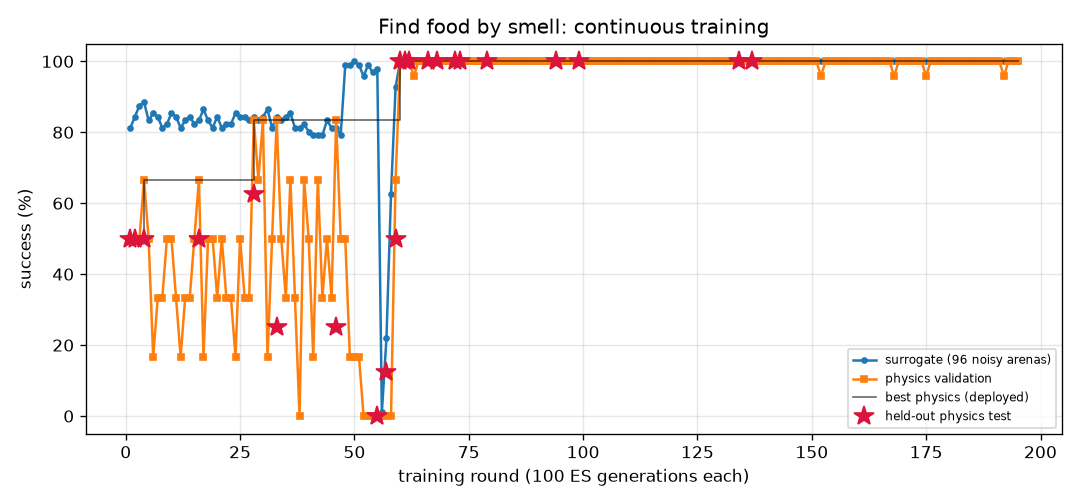
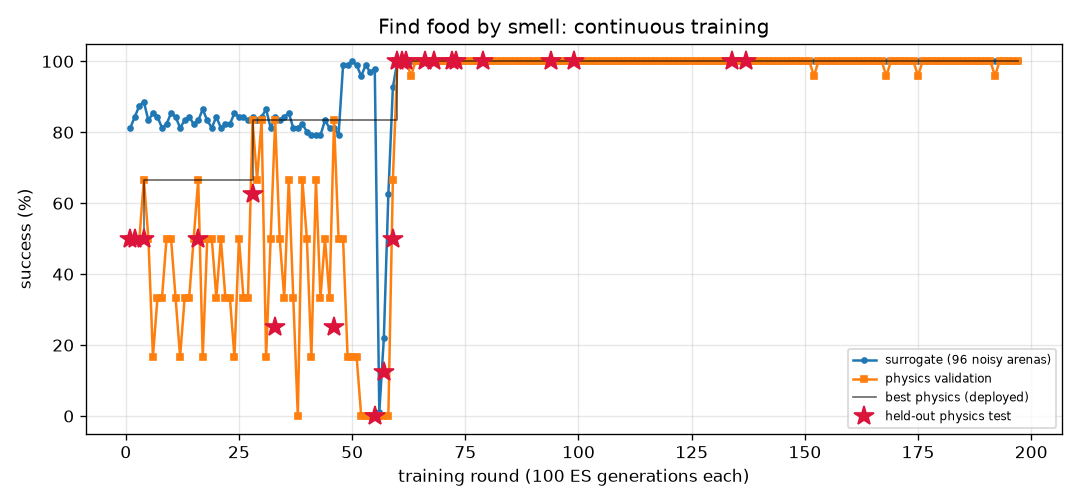
FlyLab: continuous training progress
- walk_forward: optimal, physics val 100% of 24, round 293
- turn: optimal, physics val 100% of 24, round 867
- goto: optimal, physics val 100% of 24, round 240
- odor_seek: optimal, physics val 100% of 24, round 197
- odor_avoid: optimal, physics val 100% of 24, round 784
- light_seek: optimal, physics val 100% of 24, round 433
- light_avoid: optimal, physics val 100% of 24, round 521

diff --git a/projects/09_flylab/training/goto/REPORT.md b/projects/09_flylab/training/goto/REPORT.md
@@ -1,14 +1,14 @@
 # Go to a location (`goto`) — training report
 
-*Auto-generated by `train_brains.py`, last updated 2026-11-05T12:49:54.*
+*Auto-generated by `train_brains.py`, last updated 2026-11-05T13:45:05.*
 
 ![curve](curve.png)
 
 | | |
 |---|---|
-| rounds | 237 |
-| ES generations | 23700 |
-| physics runs | 5638 |
+| rounds | 240 |
+| ES generations | 24000 |
+| physics runs | 5710 |
 | status | **optimal** |
 | best brain | round 176: physics validation **100%** on 24 arenas, surrogate 100% |
 | held-out physics test | **100%** on 32 unseen arenas (95% CI 89%-100%) (errors: [0.2, 0.32, 0.19, 0.24, 0.18, 0.2, 0.19, 0.17, 0.22, 0.23, 0.23, 0.26, 0.2, 0.19, 0.24, 0.23, 0.22, 0.24, 0.2, 0.22, 0.2, 0.2, 0.26, 0.19, 0.22, 0.18, 0.26, 0.22, 0.2, 0.26, 0.23, 0.23]) |
@@ -17,9 +17,6 @@ Physics error per arena: mm from target at the end (< 1.5 and standing still = s
 
 | round | level | gens | sigma | surrogate | physics val | val errors | test | note |
 |---:|---:|---:|---:|---:|---:|---|---:|---|
-| 198 | 3 | 19800 | 0.025 | 99% | 100% | [0.59, 0.63, 0.64, 0.54, 0.56, 0.52, 0.6, 0.56, 0.55, 0.55, 0.54, 0.56, 0.62, 0.55, 0.66, 0.64, 0.61, 0.52, 0.53, 0.59, 0.6, 0.57, 0.63, 0.54] |  |  |
-| 199 | 3 | 19900 | 0.025 | 99% | 100% | [0.68, 0.67, 0.69, 0.58, 0.57, 0.6, 0.67, 0.62, 0.61, 0.53, 0.53, 0.56, 0.65, 0.57, 0.58, 0.6, 0.68, 0.62, 0.55, 0.61, 0.6, 0.51, 0.69, 0.59] |  |  |
-| 200 | 3 | 20000 | 0.025 | 100% | 100% | [0.49, 0.52, 0.56, 0.45, 0.53, 0.47, 0.52, 0.53, 0.47, 0.49, 0.5, 0.47, 0.52, 0.52, 0.57, 0.55, 0.53, 0.44, 0.49, 0.51, 0.56, 0.52, 0.54, 0.47] |  | restart from best |
 | 201 | 3 | 20100 | 0.024 | 98% | 100% | [0.33, 0.32, 0.29, 0.32, 0.25, 0.31, 0.28, 0.35, 0.35, 0.24, 0.26, 0.31, 0.34, 0.28, 0.22, 0.28, 0.34, 0.31, 0.23, 0.34, 0.27, 0.25, 0.34, 0.32] |  |  |
 | 202 | 3 | 20200 | 0.025 | 100% | 100% | [0.43, 0.47, 0.49, 0.48, 0.38, 0.44, 0.47, 0.49, 0.45, 0.4, 0.38, 0.46, 0.45, 0.42, 0.42, 0.49, 0.46, 0.46, 0.38, 0.46, 0.46, 0.42, 0.44, 0.48] |  |  |
 | 203 | 3 | 20300 | 0.024 | 99% | 100% | [0.53, 0.56, 0.49, 0.45, 0.43, 0.44, 0.58, 0.47, 0.49, 0.44, 0.41, 0.44, 0.55, 0.41, 0.48, 0.49, 0.57, 0.47, 0.43, 0.49, 0.47, 0.45, 0.55, 0.46] |  |  |
@@ -57,3 +54,6 @@ Physics error per arena: mm from target at the end (< 1.5 and standing still = s
 | 235 | 3 | 23500 | 0.025 | 99% | 100% | [0.49, 0.48, 0.49, 0.39, 0.35, 0.37, 0.52, 0.4, 0.4, 0.35, 0.33, 0.37, 0.49, 0.34, 0.39, 0.4, 0.5, 0.45, 0.34, 0.46, 0.39, 0.35, 0.48, 0.4] |  |  |
 | 236 | 3 | 23600 | 0.025 | 99% | 100% | [0.64, 0.56, 0.58, 0.5, 0.4, 0.48, 0.57, 0.5, 0.57, 0.41, 0.42, 0.46, 0.59, 0.36, 0.45, 0.47, 0.59, 0.53, 0.42, 0.52, 0.44, 0.4, 0.58, 0.49] |  | restart from best |
 | 237 | 3 | 23700 | 0.024 | 100% | 100% | [0.6, 0.5, 0.53, 0.46, 0.39, 0.44, 0.55, 0.47, 0.49, 0.41, 0.42, 0.44, 0.54, 0.37, 0.46, 0.42, 0.55, 0.49, 0.42, 0.5, 0.42, 0.43, 0.54, 0.46] |  |  |
+| 238 | 3 | 23800 | 0.024 | 99% | 100% | [0.61, 0.56, 0.53, 0.51, 0.44, 0.47, 0.57, 0.52, 0.61, 0.45, 0.44, 0.49, 0.59, 0.45, 0.51, 0.51, 0.6, 0.51, 0.43, 0.55, 0.47, 0.47, 0.61, 0.48] |  |  |
+| 239 | 3 | 23900 | 0.025 | 100% | 100% | [0.66, 0.6, 0.62, 0.58, 0.48, 0.57, 0.68, 0.56, 0.63, 0.49, 0.52, 0.53, 0.65, 0.43, 0.56, 0.52, 0.67, 0.57, 0.5, 0.66, 0.51, 0.55, 0.63, 0.58] |  |  |
+| 240 | 3 | 24000 | 0.024 | 99% | 100% | [0.56, 0.54, 0.56, 0.43, 0.42, 0.41, 0.55, 0.45, 0.46, 0.39, 0.37, 0.41, 0.54, 0.4, 0.42, 0.47, 0.57, 0.47, 0.38, 0.47, 0.45, 0.4, 0.54, 0.42] |  | restart from best |

diff --git a/projects/09_flylab/training/odor_seek/REPORT.md b/projects/09_flylab/training/odor_seek/REPORT.md
@@ -1,14 +1,14 @@
 # Find food by smell (`odor_seek`) — training report
 
-*Auto-generated by `train_brains.py`, last updated 2026-11-04T23:07:44.*
+*Auto-generated by `train_brains.py`, last updated 2026-11-05T13:38:50.*
 
 ![curve](curve.png)
 
 | | |
 |---|---|
-| rounds | 195 |
-| ES generations | 19500 |
-| physics runs | 4110 |
+| rounds | 197 |
+| ES generations | 19700 |
+| physics runs | 4158 |
 | status | **optimal** |
 | best brain | round 137: physics validation **100%** on 24 arenas, surrogate 100% |
 | held-out physics test | **100%** on 32 unseen arenas (95% CI 89%-100%) (errors: [0.14, 0.05, 0.19, 0.15, 0.13, 0.08, 0.06, 0.06, 0.04, 0.06, 0.02, 0.11, 0.05, 0.1, 0.06, 0.01, 0.11, 0.12, 0.14, 0.08, 0.12, 0.06, 0.06, 0.09, 0.12, 0.05, 0.07, 0.07, 0.12, 0.11, 0.06, 0.11]) |
@@ -17,8 +17,6 @@ Physics error per arena: mm from target at the end (< 1.5 and standing still = s
 
 | round | level | gens | sigma | surrogate | physics val | val errors | test | note |
 |---:|---:|---:|---:|---:|---:|---|---:|---|
-| 156 | 3 | 15600 | 0.024 | 100% | 100% | [0.21, 0.25, 0.22, 0.17, 0.23, 0.18, 0.23, 0.31, 0.23, 0.25, 0.19, 0.31, 0.25, 0.27, 0.3, 0.17, 0.32, 0.26, 0.17, 0.25, 0.22, 0.24, 0.25, 0.23] |  |  |
-| 157 | 3 | 15700 | 0.024 | 100% | 100% | [0.18, 0.25, 0.15, 0.18, 0.26, 0.18, 0.18, 0.16, 0.23, 0.21, 0.15, 0.17, 0.17, 0.21, 0.16, 0.17, 0.13, 0.13, 0.17, 0.14, 0.12, 0.15, 0.11, 0.14] |  | restart from best |
 | 158 | 3 | 15800 | 0.024 | 100% | 100% | [0.2, 0.23, 0.2, 0.16, 0.22, 0.2, 0.17, 0.17, 0.19, 0.22, 0.23, 0.17, 0.18, 0.22, 0.14, 0.17, 0.2, 0.16, 0.22, 0.14, 0.17, 0.22, 0.16, 0.17] |  |  |
 | 159 | 3 | 15900 | 0.024 | 100% | 100% | [0.17, 0.15, 0.13, 0.22, 0.1, 0.2, 0.15, 0.17, 0.21, 0.23, 0.17, 0.21, 0.21, 0.18, 0.11, 0.14, 0.1, 0.19, 0.16, 0.1, 0.22, 0.22, 0.12, 0.19] |  |  |
 | 160 | 3 | 16000 | 0.024 | 100% | 100% | [0.16, 0.18, 0.24, 0.19, 0.16, 0.09, 0.14, 0.15, 0.18, 0.16, 0.15, 0.15, 0.19, 0.25, 0.15, 0.14, 0.08, 0.18, 0.21, 0.13, 0.23, 0.13, 0.18, 0.17] |  |  |
@@ -57,3 +55,5 @@ Physics error per arena: mm from target at the end (< 1.5 and standing still = s
 | 193 | 3 | 19300 | 0.024 | 100% | 100% | [0.14, 0.11, 0.2, 0.13, 0.18, 0.17, 0.09, 0.16, 0.16, 0.13, 0.14, 0.15, 0.16, 0.18, 0.18, 0.21, 0.14, 0.17, 0.14, 0.12, 0.2, 0.15, 0.13, 0.18] |  | restart from best |
 | 194 | 3 | 19400 | 0.024 | 100% | 100% | [0.17, 0.21, 0.27, 0.18, 0.2, 0.11, 0.2, 0.19, 0.15, 0.26, 0.14, 0.17, 0.23, 0.12, 0.14, 0.22, 0.14, 0.17, 0.2, 0.13, 0.16, 0.16, 0.19, 0.21] |  |  |
 | 195 | 3 | 19500 | 0.024 | 100% | 100% | [0.24, 0.13, 0.21, 0.12, 0.14, 0.18, 0.18, 0.16, 0.15, 0.19, 0.16, 0.17, 0.13, 0.2, 0.19, 0.18, 0.17, 0.19, 0.21, 0.14, 0.19, 0.22, 0.16, 0.11] |  |  |
+| 196 | 3 | 19600 | 0.024 | 100% | 100% | [0.16, 0.14, 0.14, 0.13, 0.14, 0.2, 0.19, 0.19, 0.21, 0.21, 0.21, 0.14, 0.13, 0.16, 0.2, 0.18, 0.18, 0.14, 0.17, 0.2, 0.18, 0.16, 0.23, 0.12] |  |  |
+| 197 | 3 | 19700 | 0.024 | 100% | 100% | [0.25, 0.15, 0.24, 0.21, 0.09, 0.16, 0.28, 0.15, 0.18, 0.3, 0.24, 0.22, 0.14, 0.13, 0.17, 0.16, 0.15, 0.26, 0.15, 0.21, 0.15, 0.12, 0.2, 0.25] |  | restart from best |

diff --git a/projects/09_flylab/training/turn/REPORT.md b/projects/09_flylab/training/turn/REPORT.md
@@ -1,14 +1,14 @@
 # Turn in place (`turn`) — training report
 
-*Auto-generated by `train_brains.py`, last updated 2026-11-05T10:03:39.*
+*Auto-generated by `train_brains.py`, last updated 2026-11-05T13:54:31.*
 
 ![curve](curve.png)
 
 | | |
 |---|---|
-| rounds | 866 |
-| ES generations | 86600 |
-| physics runs | 21030 |
+| rounds | 867 |
+| ES generations | 86700 |
+| physics runs | 21054 |
 | status | **optimal** |
 | best brain | round 80: physics validation **100%** on 24 arenas, surrogate 100% |
 | held-out physics test | **97%** on 32 unseen arenas (95% CI 84%-99%) (errors: [1.6, 3.3, 6.3, 3.7, 1.1, 0.4, 2.4, 2.9, 0.1, 2.6, 0.5, 2.7, 1.5, 3.1, 4.5, 0.2, 0.5, 1.1, 2.0, 4.4, 2.8, 3.2, 0.3, 2.2, 0.5, 3.0, 0.3, 5.4, 0.4, 1.0, 4.7, 10.7]) |
@@ -17,7 +17,6 @@ Physics error per arena: deg from target heading (< 20 = success).
 
 | round | level | gens | sigma | surrogate | physics val | val errors | test | note |
 |---:|---:|---:|---:|---:|---:|---|---:|---|
-| 827 | 3 | 82700 | 0.025 | 100% | 75% | [7.7, 8.0, 8.6, 1.3, 6.7, 3.3, 5.3, 4.0, 4.0, 0.2, 3.4, 4.2, 1.3, 4.0, 3.8, 1.3, 4.2, 0.5, 1.3, 1.3, 6.9, 1.1, 3.0, 2.9] |  |  |
 | 828 | 3 | 82800 | 0.024 | 100% | 79% | [5.0, 9.0, 4.5, 0.1, 6.1, 0.4, 5.5, 0.7, 2.6, 13.8, 3.0, 3.0, 0.6, 4.8, 3.7, 1.6, 3.1, 0.1, 11.2, 0.8, 4.0, 4.0, 3.6, 2.9] |  | restart from best |
 | 829 | 3 | 82900 | 0.024 | 96% | 62% | [11.0, 10.5, 4.3, 3.8, 4.7, 0.6, 3.1, 6.4, 4.2, 0.1, 1.9, 3.7, 1.2, 2.4, 2.7, 0.8, 3.8, 0.2, 0.3, 1.7, 5.6, 0.3, 2.2, 2.6] |  |  |
 | 830 | 3 | 83000 | 0.026 | 99% | 75% | [7.3, 5.2, 6.6, 0.8, 2.3, 119.0, 7.2, 10.1, 7.9, 1.6, 6.0, 1.1, 1.2, 1.2, 5.7, 4.0, 0.8, 11.8, 4.0, 4.0, 2.9, 5.1, 8.4, 7.5] |  |  |
@@ -57,3 +56,4 @@ Physics error per arena: deg from target heading (< 20 = success).
 | 864 | 3 | 86400 | 0.025 | 99% | 75% | [0.1, 7.6, 13.1, 1.0, 17.1, 5.5, 10.9, 9.8, 10.6, 4.0, 7.5, 5.7, 4.0, 2.0, 7.3, 3.9, 5.7, 6.8, 4.0, 4.6, 2.5, 4.0, 6.6, 10.1] |  | restart from best |
 | 865 | 3 | 86500 | 0.024 | 99% | 83% | [6.5, 5.7, 1.3, 1.0, 2.5, 1.0, 4.4, 5.1, 5.7, 1.1, 3.4, 0.3, 0.3, 2.3, 4.0, 3.0, 0.1, 1.0, 2.4, 2.3, 111.9, 1.7, 6.1, 4.5] |  |  |
 | 866 | 3 | 86600 | 0.025 | 99% | 83% | [6.9, 8.5, 4.3, 1.9, 5.1, 2.1, 2.9, 2.7, 3.1, 1.0, 3.4, 1.6, 2.4, 4.9, 2.3, 1.4, 2.1, 1.4, 1.7, 1.3, 7.5, 0.2, 3.7, 3.3] |  |  |
+| 867 | 3 | 86700 | 0.025 | 94% | 71% | [103.1, 6.3, 0.3, 2.5, 10.8, 3.5, 5.5, 1.2, 5.1, 2.6, 3.9, 2.0, 0.3, 1.7, 4.5, 10.3, 0.2, 1.7, 1.6, 0.5, 103.3, 3.0, 5.4, 7.1] |  |  |

diff --git a/projects/09_flylab/training/TRAINING.md b/projects/09_flylab/training/TRAINING.md
@@ -1,15 +1,15 @@
 # FlyLab brains — continuous training log
 
-*Auto-generated by `train_brains.py`, last updated 2026-11-05T12:54:51.*
+*Auto-generated by `train_brains.py`, last updated 2026-11-05T13:54:31.*
 
 Every skill has its own brain and its own training process: surrogate ES rounds, physics validation in MuJoCo, keep-the-best selection, and a held-out physics test that is never used for selection. See each skill's report for its full round-by-round history. Mastery is progressive: passing a level (100% physics validation, >=95% surrogate) doubles the validation and test arena sets; a brain is **optimal** once it holds up at level 3 (>=95% of 24 validation arenas) AND scores >=90% on the 32 held-out test arenas. Test columns show 95% Wilson confidence intervals.
 
 | skill | rounds | ES generations | physics runs | surrogate | physics val | **physics test** | status |
 |---|---:|---:|---:|---:|---:|---:|---|
 | [Walk forward](walk_forward/REPORT.md) | 293 | 29300 | 7046 | 100% | 100% of 24 | 100% of 32 (CI 89-100%) | **optimal** |
-| [Turn in place](turn/REPORT.md) | 866 | 86600 | 21030 | 100% | 100% of 24 | 97% of 32 (CI 84-99%) | **optimal** |
-| [Go to a location](goto/REPORT.md) | 237 | 23700 | 5638 | 100% | 100% of 24 | 100% of 32 (CI 89-100%) | **optimal** |
-| [Find food by smell](odor_seek/REPORT.md) | 195 | 19500 | 4110 | 100% | 100% of 24 | 100% of 32 (CI 89-100%) | **optimal** |
+| [Turn in place](turn/REPORT.md) | 867 | 86700 | 21054 | 100% | 100% of 24 | 97% of 32 (CI 84-99%) | **optimal** |
+| [Go to a location](goto/REPORT.md) | 240 | 24000 | 5710 | 100% | 100% of 24 | 100% of 32 (CI 89-100%) | **optimal** |
+| [Find food by smell](odor_seek/REPORT.md) | 197 | 19700 | 4158 | 100% | 100% of 24 | 100% of 32 (CI 89-100%) | **optimal** |
 | [Escape a bad smell](odor_avoid/REPORT.md) | 784 | 78400 | 16122 | 97% | 100% of 24 | 97% of 32 (CI 84-99%) | **optimal** |
 | [Walk toward light](light_seek/REPORT.md) | 433 | 43300 | 7272 | 100% | 100% of 24 | 100% of 32 (CI 89-100%) | **optimal** |
 | [Hide from light](light_avoid/REPORT.md) | 521 | 52100 | 12776 | 100% | 100% of 24 | 100% of 32 (CI 89-100%) | **optimal** |
